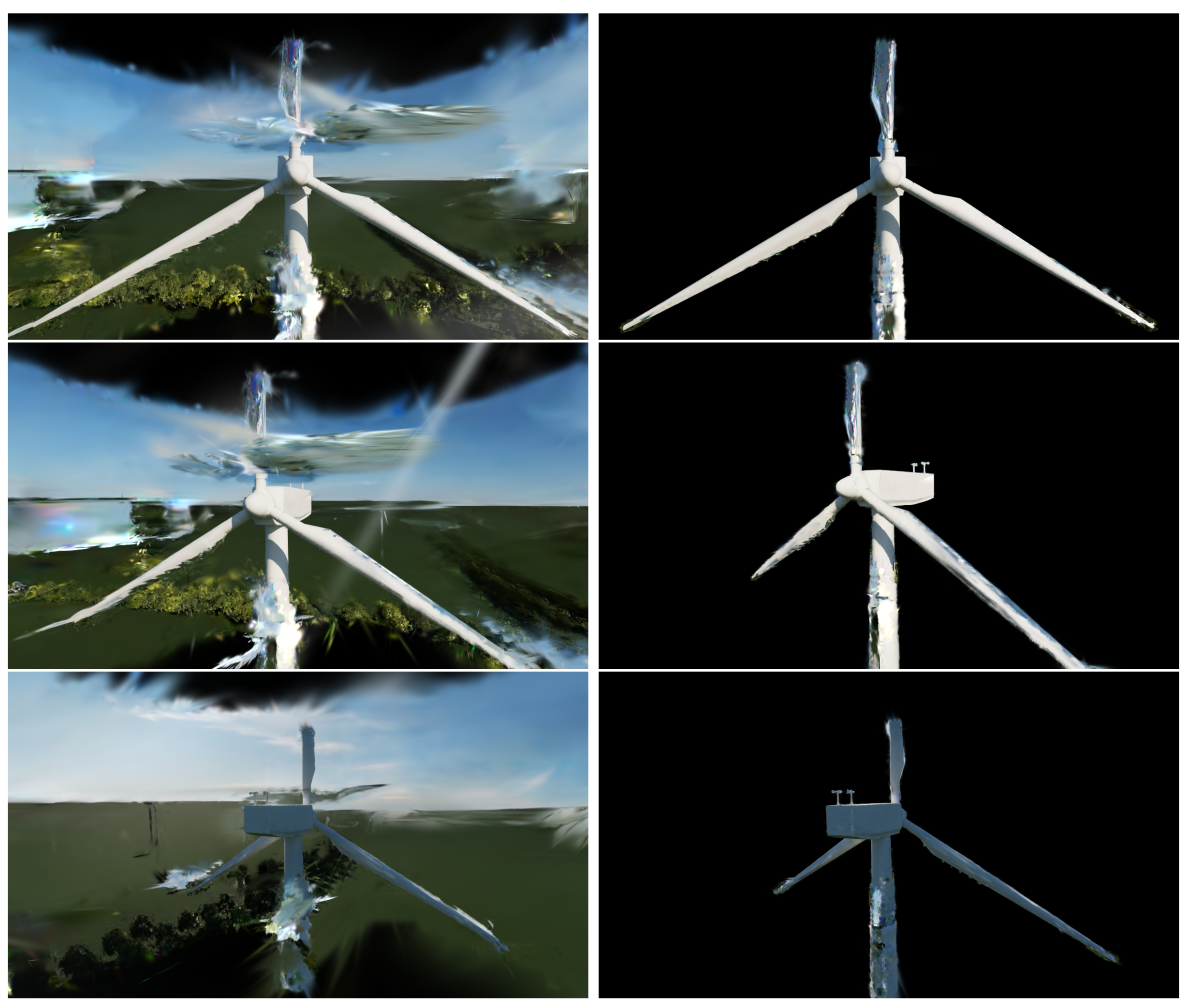
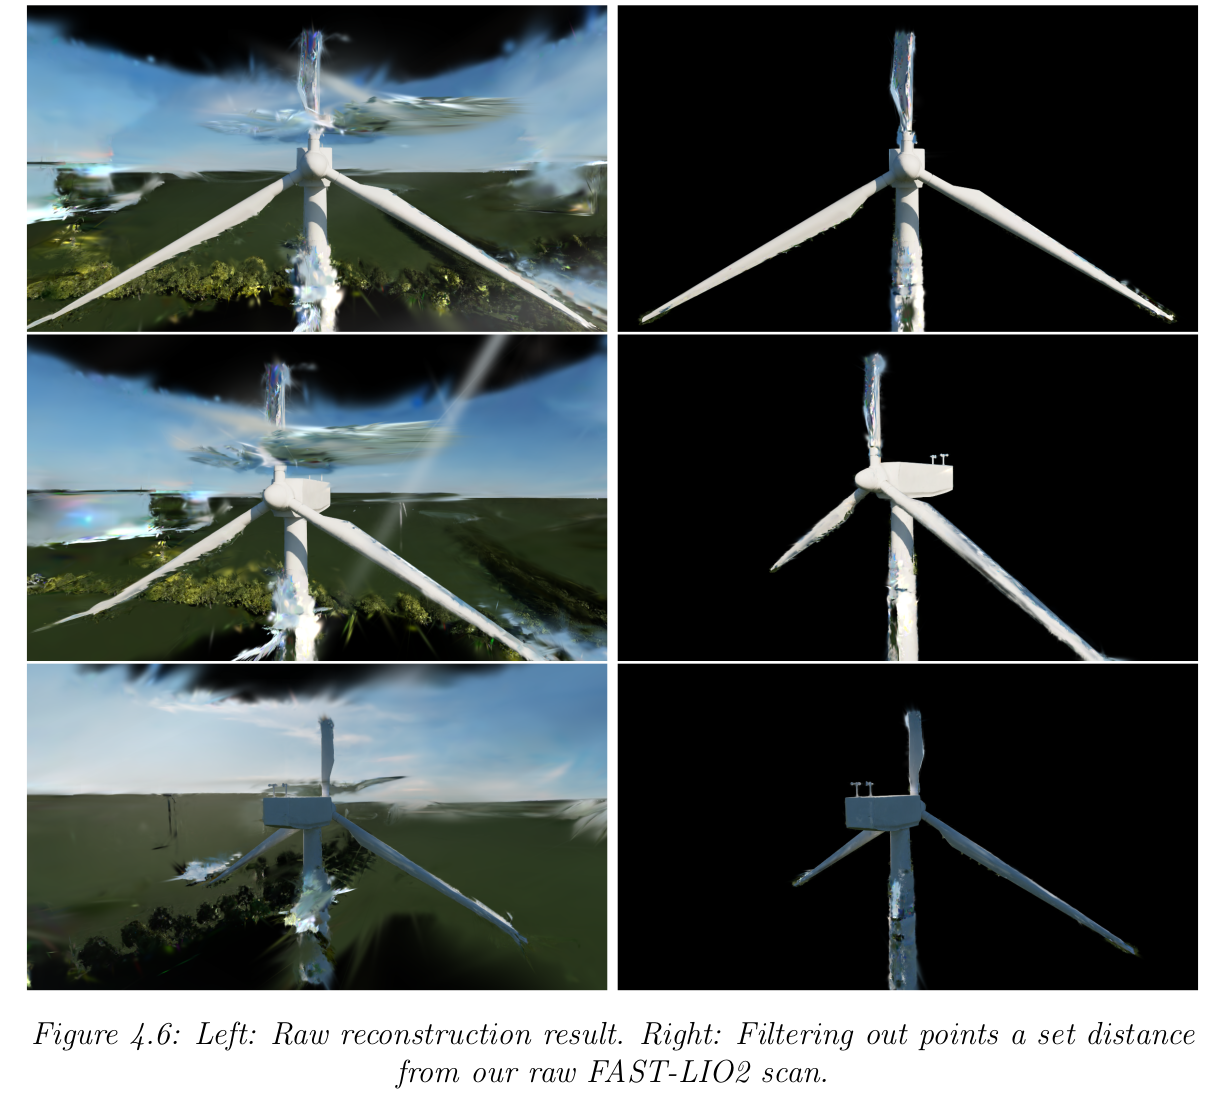
update

diff --git a/python scripts/extra_utility_beta/post_process_gaussian_splat.py b/python scripts/extra_utility_beta/post_process_gaussian_splat.py
@@ -6,13 +6,8 @@ from copy import deepcopy
 
 
 ######################### CONSTANTS ###############################
-threshold = 0.02
 voxel_size = 0.5
 filter_factor = 1.5
-trans_init = np.asarray([[1., 0., 0., 0.],
-                         [0., 1., 0., 0.],
-                         [0., 0., 1., 0.], 
-                         [0., 0., 0., 1.]])
 
 viz = True
 #################################################################
@@ -21,7 +16,7 @@ viz = True
 file_path = os.path.dirname(__file__)  
 main_path = os.path.join(file_path, '../example_stage_warehouse')
 ply_path = os.path.join(main_path,'iteration_30000/point_cloud.ply')
-scans_path = '/home/jonathan/Reconstruction/test_stage_windmill_custom_2/scans.pcd'
+scans_path = os.path.join(main_path,'scans.pcd')
 output_folder = os.path.join(main_path,'iteration_31000')
 output_path = os.path.join(output_folder,'point_cloud.ply')
 #################################################################

diff --git a/README.md b/README.md
@@ -168,3 +168,11 @@ for a massive increase in speed.
 You can then benchmark the visual reconstruction results with the following:
 python render.py -m /path/to/main_path/
 python metrics.py -m /path/to/main_path/
+
+## Postprocessing:
+
+If you want to filter out the spherical background after training or filter out most of the floating gaussians that might have been created during training, in `airlab_functions/python_scripts/extra_utility_beta` run `post_process_gaussian_splat.py`. This filters out points reated during training that are not located close to the raw point cloud from fast-lio2. The following parameters can be changed:
+
+- voxel_size: increase for faster but more rough filtering.
+- filter_factor: the maximum distance to each voxel filtered points required to be kept in the point cloud. Increase for a larger radius around the voxels to be kept. Minimum 1.
+- viz: keep true to vizualize the overlay and filtering.
